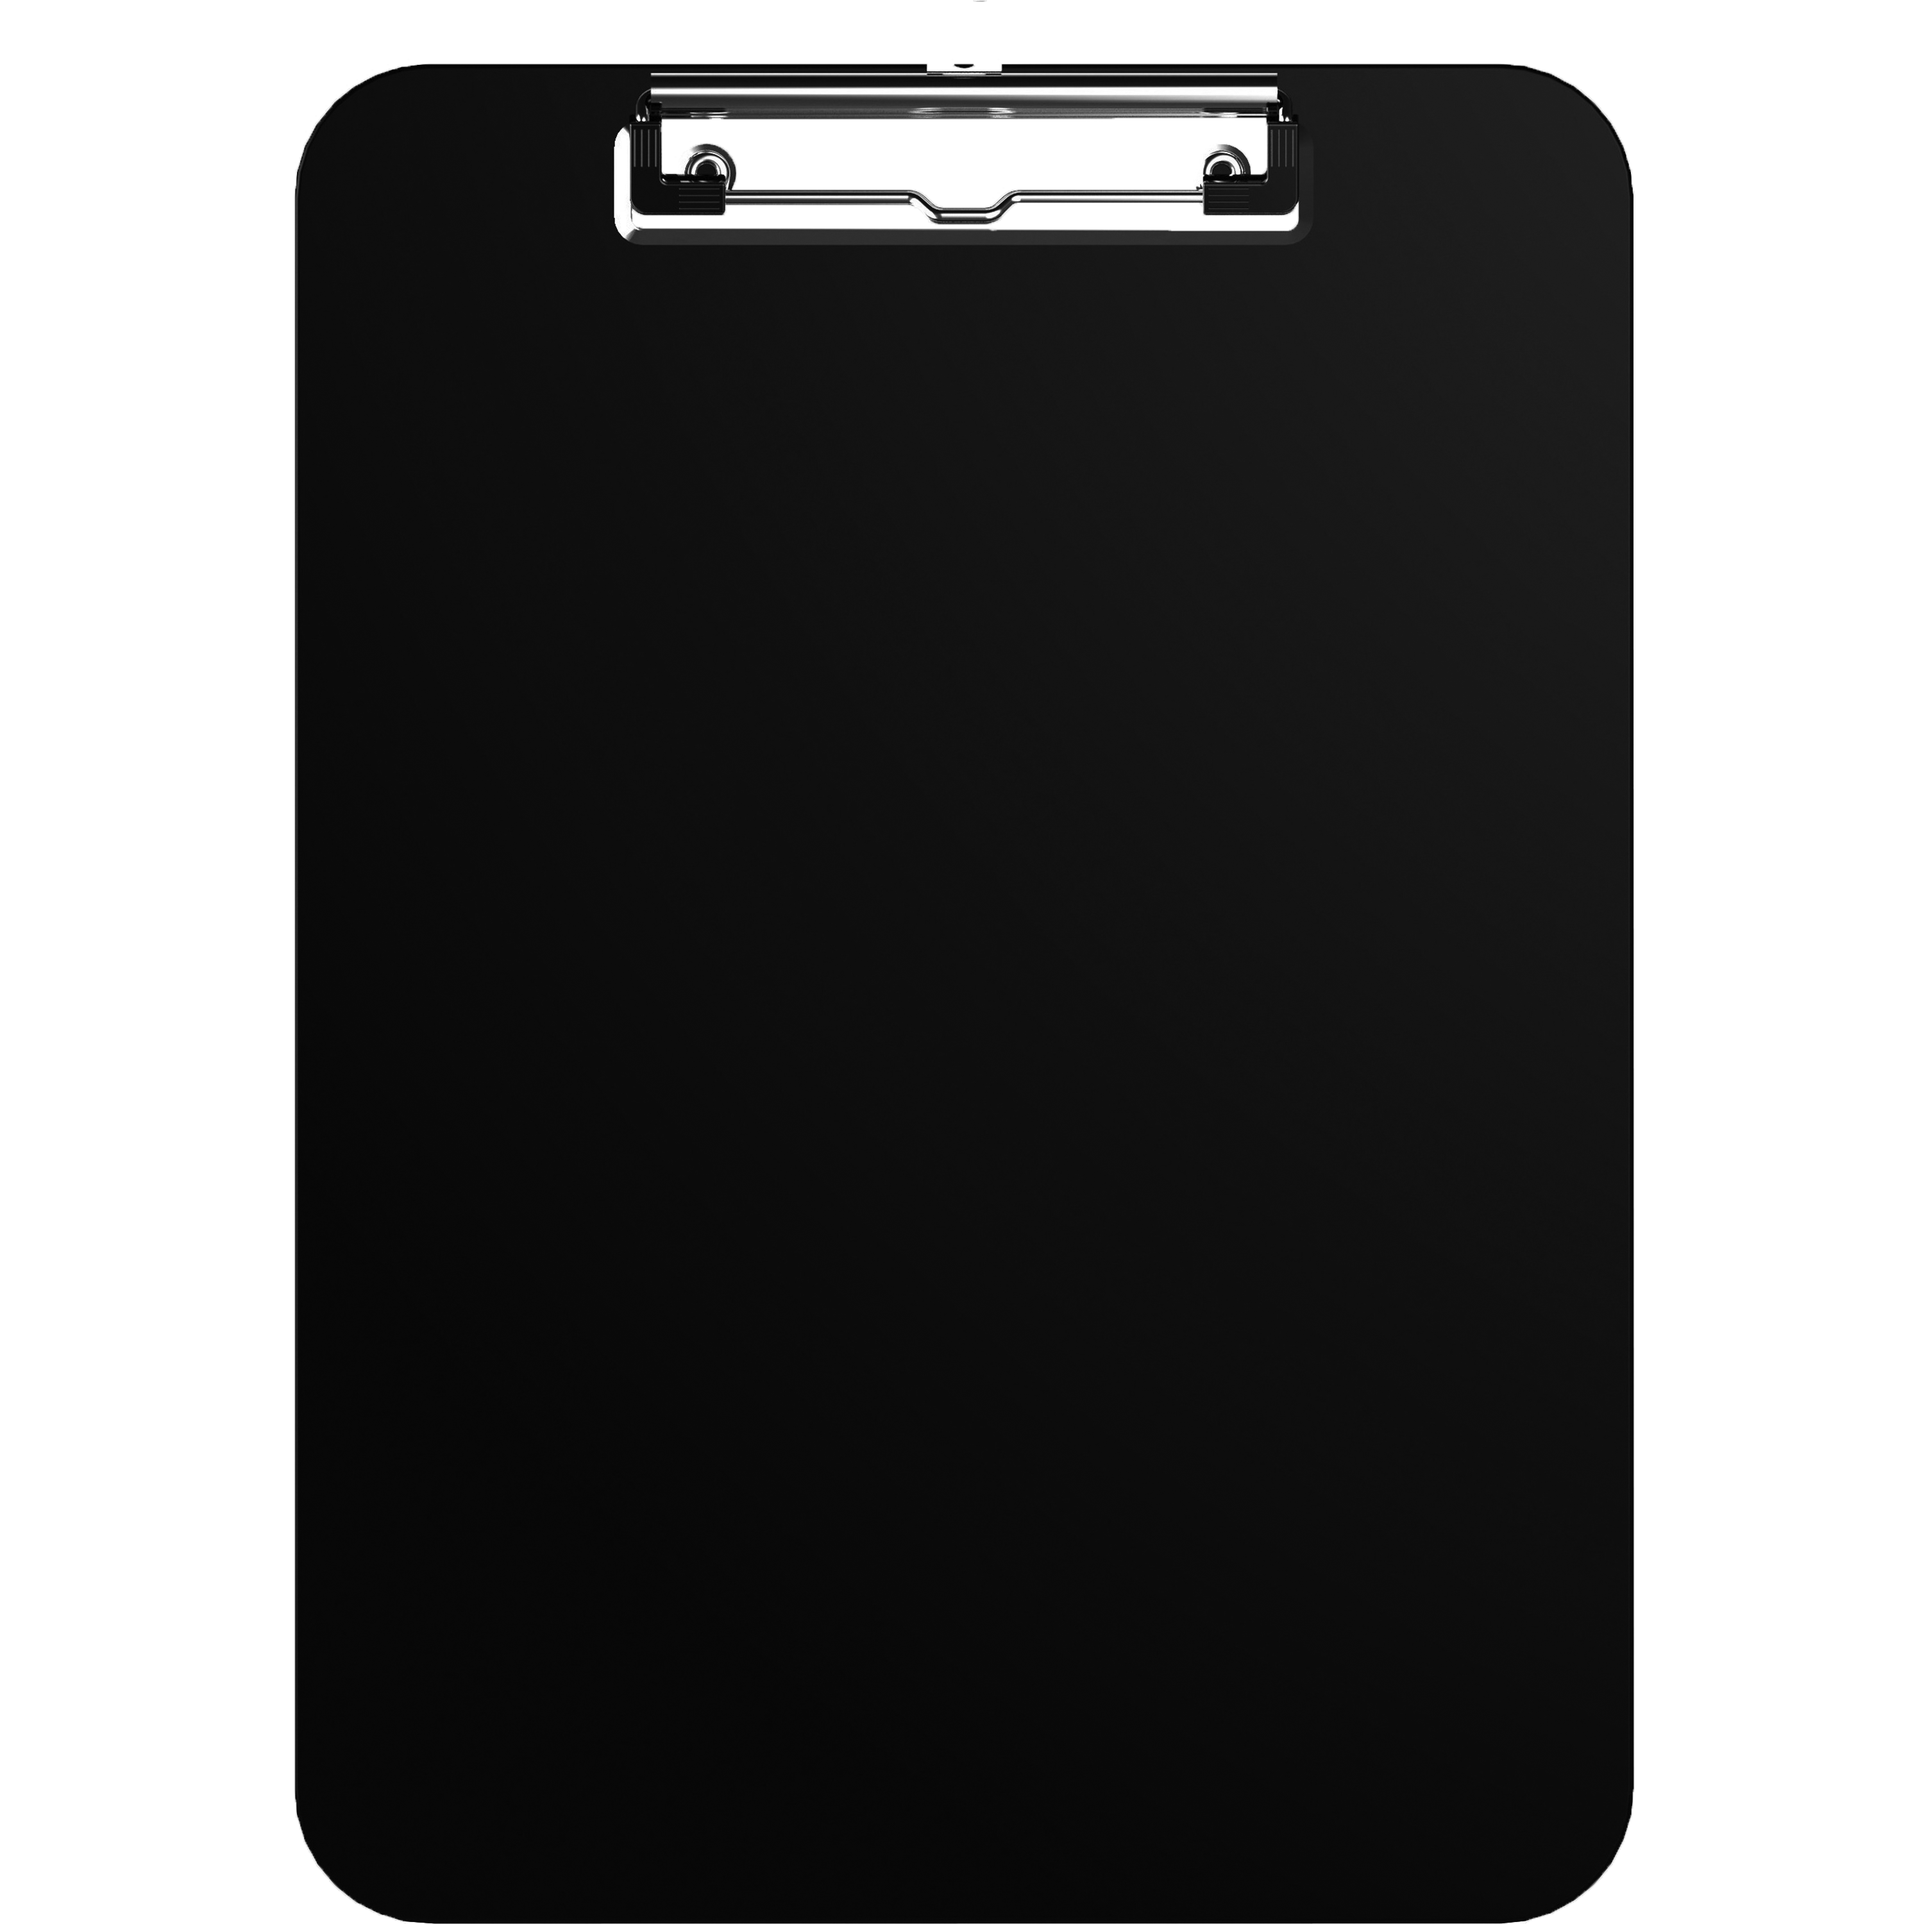
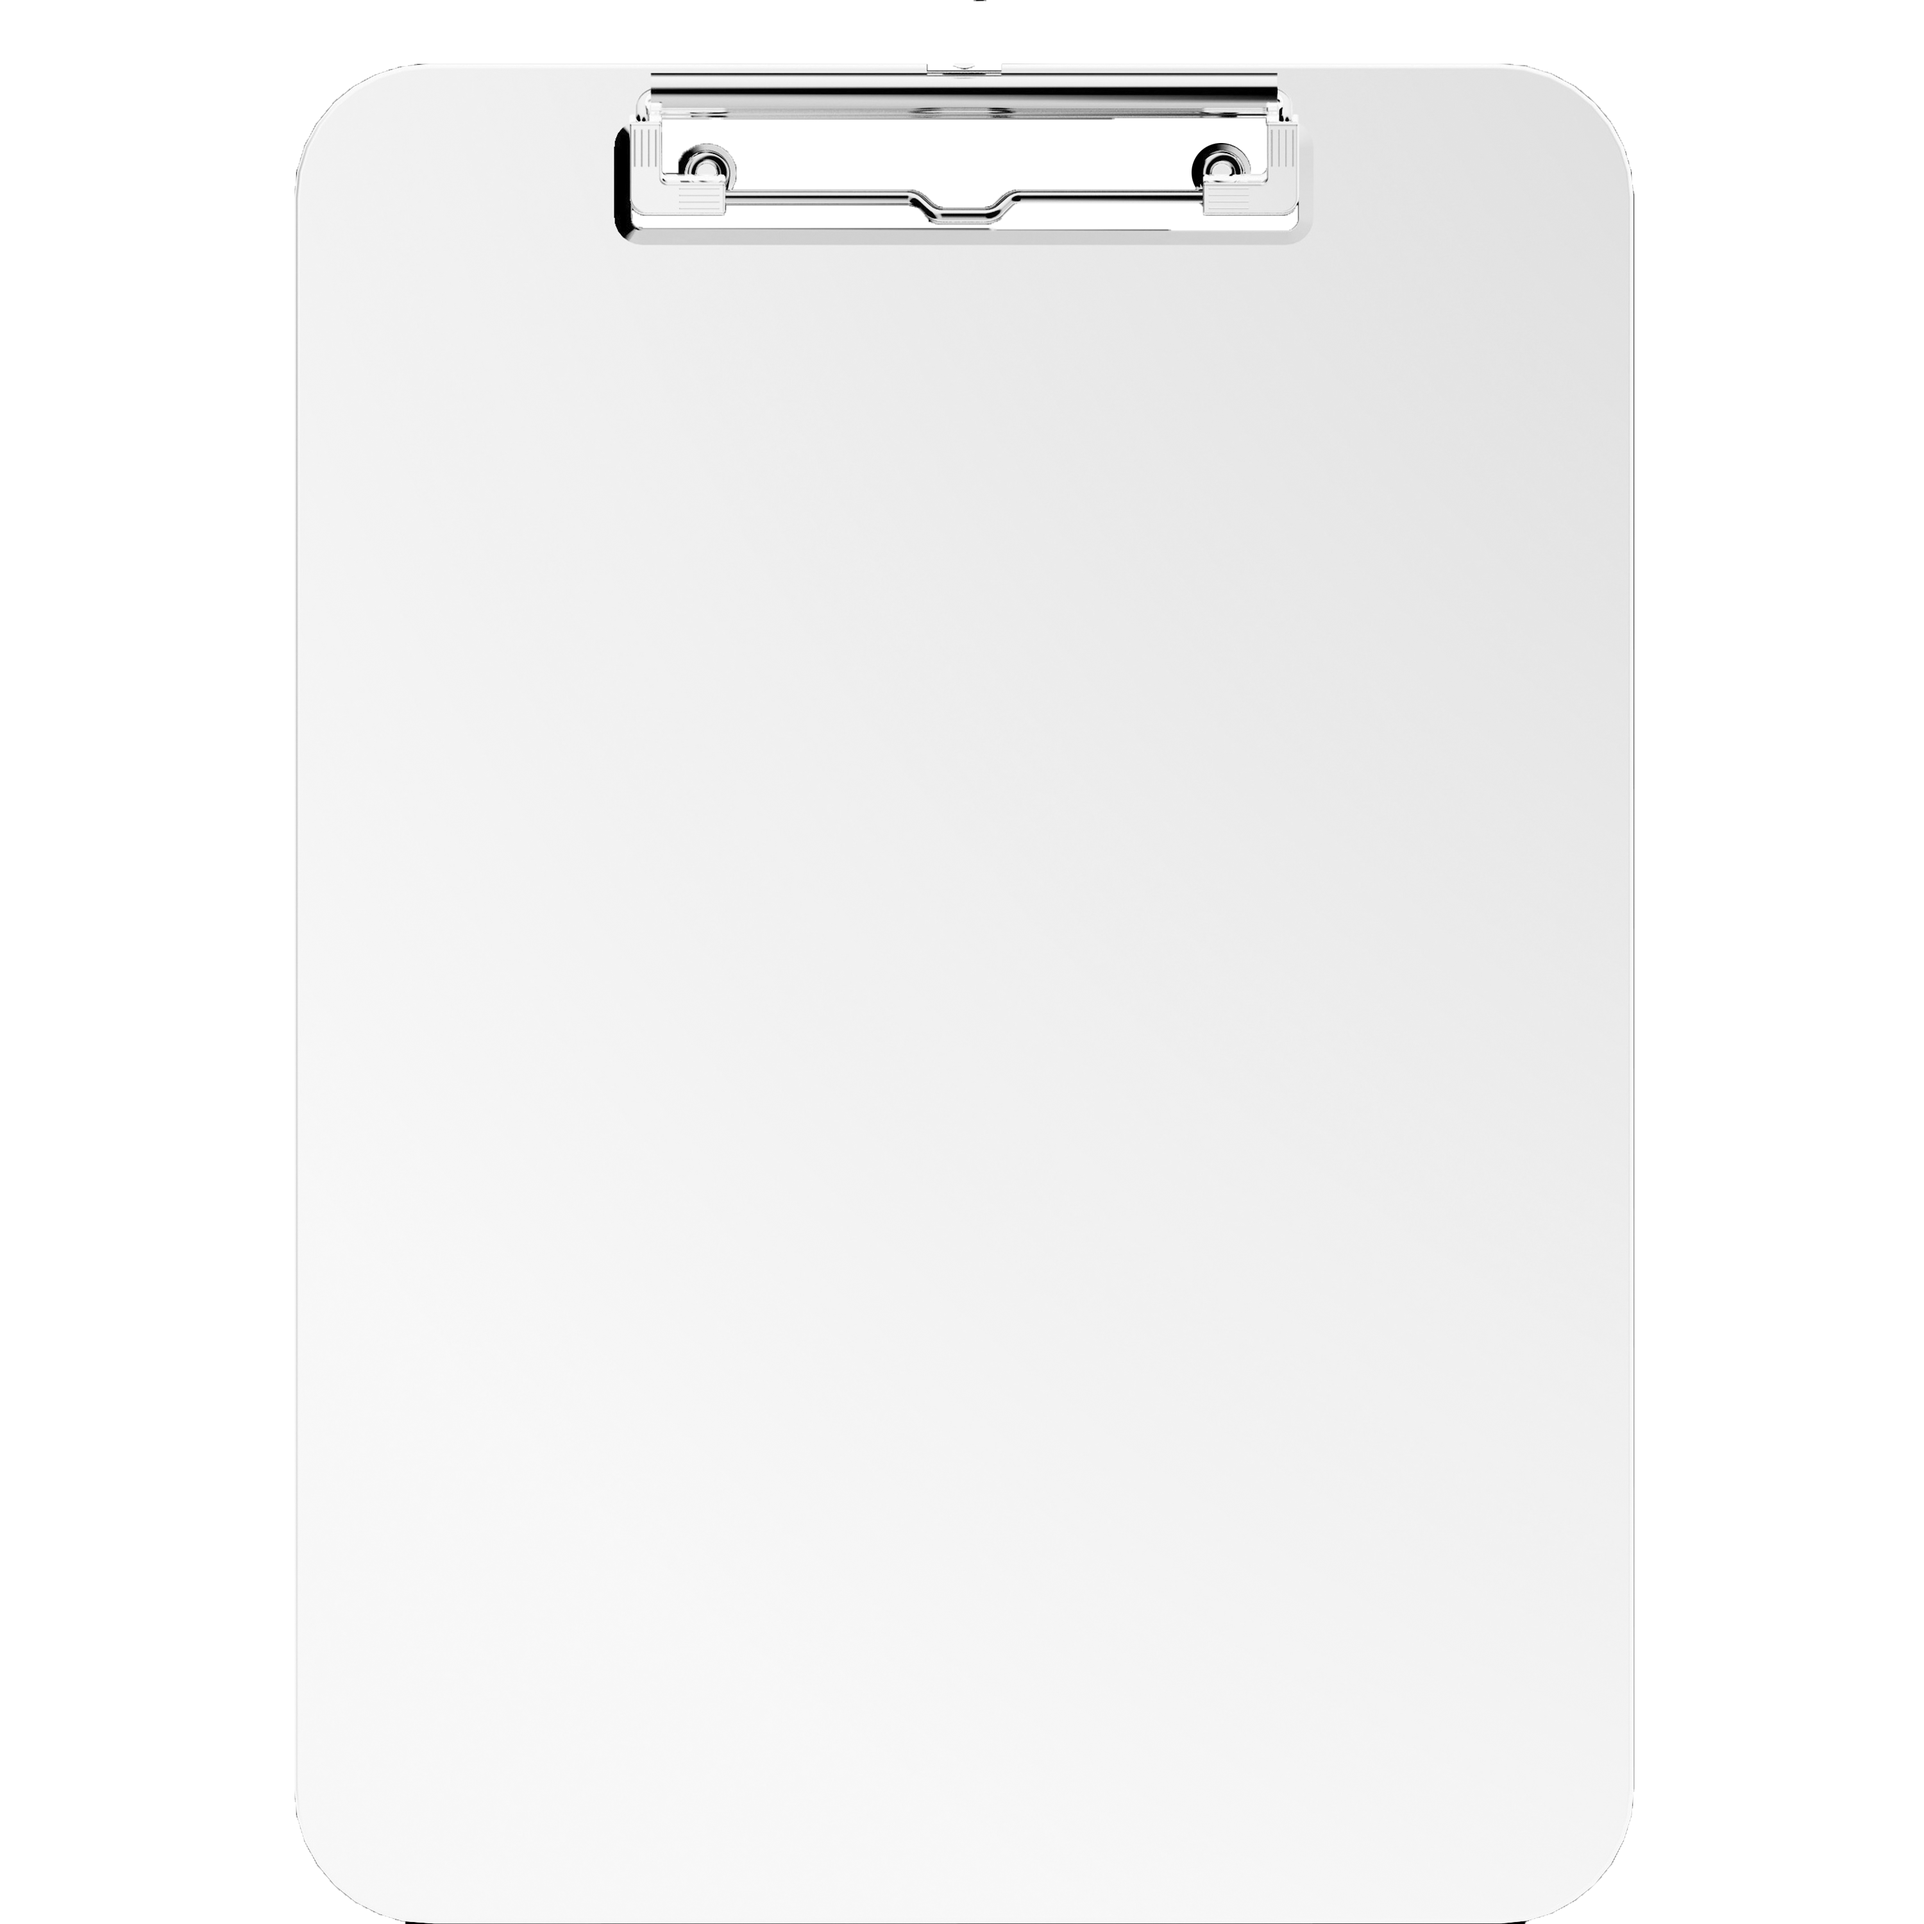
Lektions slut
Började med meny sidan och bytte lite bilder.

diff --git a/meny.html b/meny.html
@@ -6,10 +6,26 @@
     <meta name="viewport" content="width=device-width, initial-scale=1.0">
     <title>Document</title>
     <link rel="stylesheet" href="./css/style.css">
+    <link rel="stylesheet" href="https://use.fontawesome.com/releases/v5.8.2/css/all.css" integrity="sha384-oS3vJWv+0UjzBfQzYUhtDYW+Pj2yciDJxpsK1OYPAYjqT085Qq/1cq5FLXAZQ7Ay" crossorigin="anonymous">
+    <link href="https://fonts.googleapis.com/css2?family=Lato:wght@100&family=Parisienne&display=swap" rel="stylesheet">
+    <link href="//netdna.bootstrapcdn.com/twitter-bootstrap/2.3.2/css/bootstrap-combined.no-icons.min.css" rel="stylesheet">
+    <link href="//netdna.bootstrapcdn.com/font-awesome/3.2.1/css/font-awesome.css" rel="stylesheet">
+    <link href="https://fonts.googleapis.com/css2?family=Merienda&display=swap" rel="stylesheet">
 </head>
-<body>
+
+
+<body class="clipboard_background">
     <div class="menu_clipboard">
         <img class="clipboard" src="./img/clipboard.png" alt="clipboard">
     </div>
+
+    <div class="menuInfo">
+        <h1>Meny</h1>
+        <img class="menu1" src="/img/menu1.jpg">
+
+
+    </div>
+
+    <br>
 </body>
 </html>

diff --git a/css/style.css b/css/style.css
@@ -13,15 +13,15 @@ body{
 .box_background{
 	position: absolute;
 	background-color: black;
-	width: 100%;
+	width: 100vw;
 	height: 100%;
 	opacity: 0.3;
-	z-index: 10;
-	top: 0;
+	z-index: 1;
+	margin-top: 0;
 }
 
 .navbar{
-	width: 100%;
+	width: 100vw;
 	float: right;
 	background: linear-gradient(180deg,black,transparent);
 	height: 150px;
@@ -129,9 +129,39 @@ body{
 	color: #fff;
   }
   
+.clipboard_background{
+	background: rgb(2,0,36);
+	background: linear-gradient(4deg, #fc00ff 0%, #00dbde 100%);
+	height: 170vh;
+	z-index: 1;
+}  
 .clipboard {
 	width: 1000px;
-	height: auto;
+	height: 1000px;
 	position: absolute;
 	left: 150px;
+	z-index: 2;
+}
+
+.menuInfo{
+	position: absolute;
+	left: 330px;
+	top: 150px;
+	background: black;
+	z-index: 3;
+	width: 639px;
+	height: 800px;
+}
+
+.menuInfo h1{
+	font-family: Lato;
+	color: #fff;
+	text-align: center;
+}
+
+.menu1{
+	position: relative;
+	width: 300px;
+	text-align: center;
+	border-radius: 20px;
 }

diff --git a/index.html b/index.html
@@ -18,12 +18,13 @@
     <ul type="none">
       <li><a href=""><i class="fas fa-user-friends"></i><br><br> Kontakt</a></li>
       <li><a href="meny.html"><i class="fas fa-book-open"></i><br>Meny</a></li>
-    </ul>
+    </ul>   
   </div> 
   <div id="info_content">
     <div class="underline"></div>
       <h1>Välkommen!</h1>
-  </div>
+
+</div>
 </body>
 </html>
 
